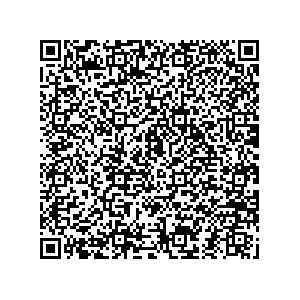
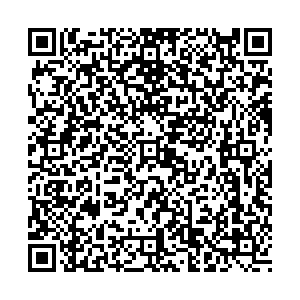
new

diff --git a/bin/main/templates/patientPortal/index.html b/bin/main/templates/patientPortal/index.html
@@ -5,8 +5,8 @@
     <meta charset="utf-8">
     <meta name="viewport" content="width=device-width, initial-scale=1">
     <title>Untitled</title>
-    <link rel="stylesheet" type="text/css" href="http://localhost:8080/html/patientdash/assets/css/bootstrap-icons.css">
-    <link rel="stylesheet" type="text/css" href="http://localhost:8080/html/patientdash/assets/css/styles.css?1091">
+    <link rel="stylesheet" type="text/css" href="http://192.168.8.4:8080/html/patientdash/assets/css/bootstrap-icons.css">
+    <link rel="stylesheet" type="text/css" href="http://192.168.8.4:8080/html/patientdash/assets/css/styles.css?1091">
 </head>
 
 <body>
@@ -19,14 +19,14 @@
             <div class="class_5" spellcheck="false">
                 Patient dashboard to save all your data!
             </div>
-            <img src="http://localhost:8080/html/patientdash/assets/images/site-stats-concept-illustration_114360-1434.webp"
+            <img src="http://192.168.8.4:8080/html/patientdash/assets/images/site-stats-concept-illustration_114360-1434.webp"
                 class="class_6">
         </div>
     </section>
     <section class="class_7">
         <div class="class_8">
             <div class="class_9">
-                <img src="http://localhost:8080/html/patientdash/assets/images/surprised-happy-girl-pointing-left-recommend-product-advertisement-make-okay-gesture_176420-20191.jpg"
+                <img src="http://192.168.8.4:8080/html/patientdash/assets/images/surprised-happy-girl-pointing-left-recommend-product-advertisement-make-okay-gesture_176420-20191.jpg"
                     class="class_10">
                 <h1 class="class_11">
                     Patient QR code
@@ -34,7 +34,7 @@
                 </h1>
             </div>
             <div class="class_9">
-                <img src="http://localhost:8080/html/patientdash/assets/images/beautiful-happy-african-american-woman-has-surprised-joyful-expression-cannot-believe-sudden-success-dressed-casual-white-jumper_273609-43273.jpg"
+                <img src="http://192.168.8.4:8080/html/patientdash/assets/images/beautiful-happy-african-american-woman-has-surprised-joyful-expression-cannot-believe-sudden-success-dressed-casual-white-jumper_273609-43273.jpg"
                     class="class_10">
                 <h1 class="class_11">
                     Patient details
@@ -42,7 +42,7 @@
                 </h1>
             </div>
             <div class="class_9">
-                <img src="http://localhost:8080/html/patientdash/assets/images/close-up-shot-ordinary-fair-haired-caucasian-male-with-bristle-earrings-staring-carefree-being-indifferent-calm_176420-25002.jpg"
+                <img src="http://192.168.8.4:8080/html/patientdash/assets/images/close-up-shot-ordinary-fair-haired-caucasian-male-with-bristle-earrings-staring-carefree-being-indifferent-calm_176420-25002.jpg"
                     class="class_10">
                 <h1 class="class_11">
                     Current Wait Time
@@ -52,7 +52,7 @@
             </div>
 
             <div class="class_9">
-                <img src="http://localhost:8080/html/patientdash/assets/images/close-up-shot-ordinary-fair-haired-caucasian-male-with-bristle-earrings-staring-carefree-being-indifferent-calm_176420-25002.jpg"
+                <img src="http://192.168.8.4:8080/html/patientdash/assets/images/close-up-shot-ordinary-fair-haired-caucasian-male-with-bristle-earrings-staring-carefree-being-indifferent-calm_176420-25002.jpg"
                     class="class_10">
                 <h1 class="class_11">
                     Doctor assigned
@@ -69,7 +69,7 @@
 <script>
     function openPopup() {
         localStorage.setItem("token", "eyJhbGciOiJIUzUxMiJ9.eyJVSUQiOiIxIn0.lSIvcJrJYPXUjGffrIlGTTomfG0mD8mVFSfSg0eda4l-j_8gmAy3dnZCEx50WyuVWgW9sb_Mk6w4BFHxMPlpxQ")
-        fetch("http://localhost:8080/api/user/getQrPath", {
+        fetch("http://192.168.8.4:8080/api/user/getQrPath", {
             method: "GET",
             headers: {
                 "Content-Type": "application/json",
@@ -80,7 +80,7 @@
         }).then(resp => {
             console.log(resp)
             // Set the src attribute of the qrCode image
-            document.querySelector("#qrCode").src = `http://localhost:8080/${resp.path}`;
+            document.querySelector("#qrCode").src = `http://192.168.8.4:8080/${resp.path}`;
             // Get the src attribute after it's set
             var qrCodeImage = document.getElementById("qrCode");
             var qrCodeLink = qrCodeImage.src;
@@ -93,7 +93,7 @@
     }
 
     function openPop() {
-        fetch("http://localhost:8080/api/user/getPatientDetails", {
+        fetch("http://192.168.8.4:8080/api/user/getPatientDetails", {
             method: "GET",
             headers: {
                 "Content-Type": "application/json",
@@ -137,7 +137,7 @@
         let symptom = []
         const popupWin = window.open('', "DoctorAssign", "width=600, height=400");
 
-        fetch("http://localhost:8080/api/hospital/getSpeciality", {
+        fetch("http://192.168.8.4:8080/api/hospital/getSpeciality", {
             method: "GET",
             headers: {
                 "Content-Type": "application/json"
@@ -155,7 +155,7 @@
             .catch(error => console.error("Error fetching specialities:", error));
 
         //for symptoms    
-        fetch("http://localhost:8080/api/hospital/getSymptoms", {
+        fetch("http://192.168.8.4:8080/api/hospital/getSymptoms", {
             method: "GET",
             headers: {
                 "Content-Type": "application/json"
@@ -181,15 +181,16 @@
                         <h2>Doctor Allocation</h2>
                         <form id="doctorForm">
                             <div>
-                                <label for="doctorName">Select Doctor by Name:</label><br>
-                                <select id="doctorName" name="doctorName">
-                                    <!--Options will be added-->
-                                </select>
-                                <br><br>
                                 <label for="speciality">Select Speciality:</label><br>
                                 <select id="speciality" name="speciality">
                                     <!--Options will be added-->
                                 </select>
+                                <br><br>
+                                <label for="doctorName">Select Doctor by Name:</label><br>
+                                <select id="doctorName" name="doctorName">
+                                    <!--Options will be added-->
+                                </select>
+                                <button id="submitSpeciality">Submit Speciality</button>
                                 <br><br>
                                 <label for="symptoms">Select Symptoms:</label><br>
                                 <select id="symptoms" name="symptoms">
@@ -211,7 +212,7 @@
 
         popupWin.document.getElementById('speciality').addEventListener('change', function () {
             const selectedSpeciality = this.value;
-            fetch(`http://localhost:8080/api/hospital/getDocs?speciality=${selectedSpeciality}`, {
+            fetch(`http://192.168.8.4:8080/api/hospital/getDocs?speciality=${selectedSpeciality}`, {
                 method: "GET",
                 headers: {
                     'Content-Type': 'application/json'
@@ -230,6 +231,18 @@
                 })
                 .catch(error => console.error('Error fetching doctor:', error));
         });
+
+        popupWin.document.getElementById('submitSpeciality').addEventListener('click', function () {
+            fetch("http://192.168.8.4:8080/api/hospital/assignDocByName?did="+popupWin.document.getElementById('doctorName').value, {
+                method: "GET",
+                headers: {
+                    "Content-Type": "application/json",
+                    "Authorization": `Bearer ${localStorage.getItem('token')}`
+                },
+            })
+                .then(res => res.json())
+                .then(resp => window.alert(resp.msg))
+        });
         
         popupWin.document.getElementById('addSymptoms').addEventListener('click', function () {
             const specialitySelect = popupWin.document.getElementById('symptoms').value;
@@ -238,7 +251,7 @@
         });
 
         popupWin.document.getElementById('submitSymptoms').addEventListener('click', function () {
-            fetch("http://localhost:8080/api/hospital/assignDocBySymp", {
+            fetch("http://192.168.8.4:8080/api/hospital/assignDocBySymp", {
                 method: "POST",
                 headers: {
                     "Content-Type": "application/json",

diff --git a/bin/main/templates/doctorPortal/doc.html b/bin/main/templates/doctorPortal/doc.html
@@ -127,8 +127,8 @@
                     </div>
                 </div>
                 <div class="btn-container">
-                    <button class="btn" onclick="getPat()">next Patient</button>
-                    <button class="btn" onclick="leave()">Leave</button>
+                    <button class="btn" onclick="getPat()" type="button">next Patient</button>
+                    <button class="btn" onclick="leave()" type="button">Leave</button>
                 </div>
             </form>
         </div>
@@ -151,8 +151,8 @@
     }
 
     function getPat(){
-        fetch("http://192.168.8.4:8080/api/hospital/get",{
-            method:"Get",
+        fetch("http://192.168.8.4:8080/api/hospital/getNextPat",{
+            method:"GET",
             headers:{
                 "Content-Type":"application/json",
                 "Authorization":`Bearer ${localStorage.getItem("token")}`
@@ -161,9 +161,25 @@
             return resp.json()
         }).then(res=>{
             const inputs = document.querySelectorAll(".text-container")
+            console.log(res)
             if(Object.keys(res).includes("patient")){
                 let pat = JSON.parse(res.patient)
-                inputs[0].value 
+                console.log(pat)
+                console.log(inputs)
+                inputs[0].value = pat.first_name;
+                inputs[1].value = pat.last_name;
+                inputs[2].value = pat.email;
+                inputs[3].value = pat.gender;
+                inputs[4].value = pat.phone_number;
+                inputs[4].value = pat.date_of_birth;
+                inputs[4].value = pat.address;
+                inputs[4].value = pat.allergies;
+                inputs[4].value = pat.last_appointment_date;
+                inputs[4].value = pat.medications;
+                inputs[4].value = pat.medical_conditions;
+                inputs[4].value = pat.emer_Name;
+                inputs[4].value = pat.emer_Rel;
+                inputs[4].value = pat.emer_Phn;
                 return 0
             }
             window.alert(res.msg)

diff --git a/src/main/resources/templates/doctorPortal/doc.html b/src/main/resources/templates/doctorPortal/doc.html
@@ -127,8 +127,8 @@
                     </div>
                 </div>
                 <div class="btn-container">
-                    <button class="btn" onclick="getPat()">next Patient</button>
-                    <button class="btn" onclick="leave()">Leave</button>
+                    <button class="btn" onclick="getPat()" type="button">next Patient</button>
+                    <button class="btn" onclick="leave()" type="button">Leave</button>
                 </div>
             </form>
         </div>
@@ -151,8 +151,8 @@
     }
 
     function getPat(){
-        fetch("http://192.168.8.4:8080/api/hospital/get",{
-            method:"Get",
+        fetch("http://192.168.8.4:8080/api/hospital/getNextPat",{
+            method:"GET",
             headers:{
                 "Content-Type":"application/json",
                 "Authorization":`Bearer ${localStorage.getItem("token")}`
@@ -161,9 +161,25 @@
             return resp.json()
         }).then(res=>{
             const inputs = document.querySelectorAll(".text-container")
+            console.log(res)
             if(Object.keys(res).includes("patient")){
                 let pat = JSON.parse(res.patient)
-                inputs[0].value 
+                console.log(pat)
+                console.log(inputs)
+                inputs[0].value = pat.first_name;
+                inputs[1].value = pat.last_name;
+                inputs[2].value = pat.email;
+                inputs[3].value = pat.gender;
+                inputs[4].value = pat.phone_number;
+                inputs[4].value = pat.date_of_birth;
+                inputs[4].value = pat.address;
+                inputs[4].value = pat.allergies;
+                inputs[4].value = pat.last_appointment_date;
+                inputs[4].value = pat.medications;
+                inputs[4].value = pat.medical_conditions;
+                inputs[4].value = pat.emer_Name;
+                inputs[4].value = pat.emer_Rel;
+                inputs[4].value = pat.emer_Phn;
                 return 0
             }
             window.alert(res.msg)

diff --git a/bin/main/templates/qrgen.html b/bin/main/templates/qrgen.html
@@ -95,7 +95,7 @@ video {
     </script>
 
     <script>
-        localStorage.setItem("token","eyJhbGciOiJIUzUxMiJ9.eyJVSUQiOiIxMCJ9.yfkk1Y8awwvdQEVcMZkKC_9PsDJEON4RK0oYNCj4oP37hPBICOOP52aq5lNTWKeRu51jTkmtq_zJkEwJycmIJw");
+        localStorage.setItem("token","eyJhbGciOiJIUzUxMiJ9.eyJVSUQiOiIxIn0.uwrxJsYZfXZswjmfpMCwG_e2aJfxZ8rc6rxnbIdBXNzx9Bov8xBS5WaP2pXJ99VpaqxD-Qmwam2bkLyL_Xyi2A");
         function domReady(fn) {
         if (
             document.readyState === "complete" ||
@@ -110,7 +110,7 @@ video {
     domReady(function () {
  
     // If found you qr code
-        function onScanSuccess(decodeText, decodeResult) {
+        function onscanSuccess(decodeText, decodeResult) {
              alert("QR scanned");
              fetch("http://192.168.8.4:8080/api/hospital/doctorPunchIn",{
                 method:"POST",
@@ -134,7 +134,7 @@ video {
             "my-qr-reader",
             { fps: 10, qrbos: 250 }
         );
-        htmlscanner.render(onScanSuccess);
+        htmlscanner.render(onscanSuccess);
     });
     </script>
     

diff --git a/src/main/resources/templates/qrgen.html b/src/main/resources/templates/qrgen.html
@@ -95,7 +95,7 @@ video {
     </script>
 
     <script>
-        localStorage.setItem("token","eyJhbGciOiJIUzUxMiJ9.eyJVSUQiOiIxMCJ9.yfkk1Y8awwvdQEVcMZkKC_9PsDJEON4RK0oYNCj4oP37hPBICOOP52aq5lNTWKeRu51jTkmtq_zJkEwJycmIJw");
+        localStorage.setItem("token","eyJhbGciOiJIUzUxMiJ9.eyJVSUQiOiIxIn0.uwrxJsYZfXZswjmfpMCwG_e2aJfxZ8rc6rxnbIdBXNzx9Bov8xBS5WaP2pXJ99VpaqxD-Qmwam2bkLyL_Xyi2A");
         function domReady(fn) {
         if (
             document.readyState === "complete" ||
@@ -110,7 +110,7 @@ video {
     domReady(function () {
  
     // If found you qr code
-        function onScanSuccess(decodeText, decodeResult) {
+        function onscanSuccess(decodeText, decodeResult) {
              alert("QR scanned");
              fetch("http://192.168.8.4:8080/api/hospital/doctorPunchIn",{
                 method:"POST",
@@ -134,7 +134,7 @@ video {
             "my-qr-reader",
             { fps: 10, qrbos: 250 }
         );
-        htmlscanner.render(onScanSuccess);
+        htmlscanner.render(onscanSuccess);
     });
     </script>
     

diff --git a/bin/main/templates/qrPat.html b/bin/main/templates/qrPat.html
@@ -95,6 +95,7 @@ video {
     </script>
 
     <script>
+        localStorage.setItem("token","eyJhbGciOiJIUzUxMiJ9.eyJVSUQiOiIxIn0.uwrxJsYZfXZswjmfpMCwG_e2aJfxZ8rc6rxnbIdBXNzx9Bov8xBS5WaP2pXJ99VpaqxD-Qmwam2bkLyL_Xyi2A");
         function domReady(fn) {
         if (
             document.readyState === "complete" ||
@@ -111,7 +112,7 @@ video {
     // If found you qr code
         function onScanSuccess(decodeText, decodeResult) {
              alert("QR scanned");
-             window.open("http://192.168.8.4/api/pages/getPatientDetails?token="+decodeText,"_blank")
+             window.open("http://192.168.8.4:8080/api/pages/getPatientDetails?token="+decodeText,"_blank")
         }
  
         let htmlscanner = new Html5QrcodeScanner(

diff --git a/src/main/resources/templates/qrPat.html b/src/main/resources/templates/qrPat.html
@@ -95,6 +95,7 @@ video {
     </script>
 
     <script>
+        localStorage.setItem("token","eyJhbGciOiJIUzUxMiJ9.eyJVSUQiOiIxIn0.uwrxJsYZfXZswjmfpMCwG_e2aJfxZ8rc6rxnbIdBXNzx9Bov8xBS5WaP2pXJ99VpaqxD-Qmwam2bkLyL_Xyi2A");
         function domReady(fn) {
         if (
             document.readyState === "complete" ||

diff --git a/src/main/java/com/darts/server/UserController.java b/src/main/java/com/darts/server/UserController.java
@@ -70,12 +70,12 @@ public class UserController {
     @GetMapping("/test")
     public String test() throws WriterException, IOException{
         // Token Class patient
+        TokenClass tk = new TokenClass(secretKey);
         TokenClass tks = new TokenClass(docSecretKey);
         
-        specialistService.updateSpecialistQrPath(specialistService.getOneSpecialist(0).get(), CreateQr.generateAndSaveQRCode(tks.generateToken(0, false), "0", true));
-        specialistService.updateSpecialistQrPath(specialistService.getOneSpecialist(108).get(), CreateQr.generateAndSaveQRCode(tks.generateToken(108, false), "108", true));
+        CreateQr.generateAndSaveQRCode(tk.generateToken(1, false), "1", false);
 
-        return tks.generateToken(0, false);
+        return tks.generateToken(1, false);
     }
 
     // Add Users
